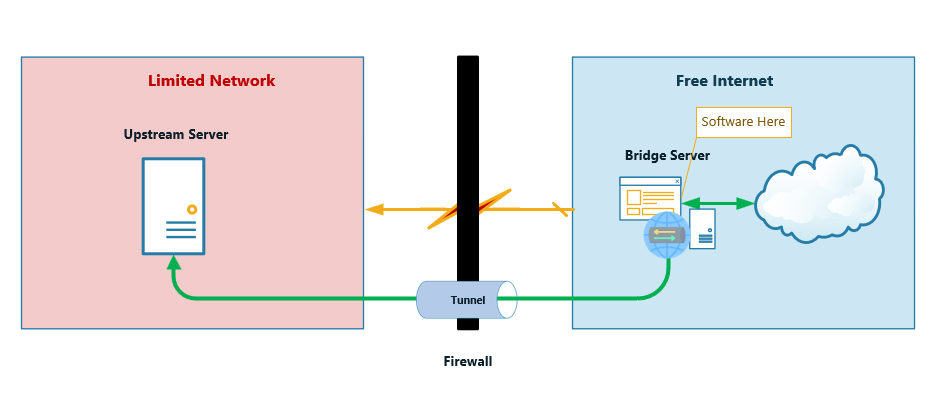
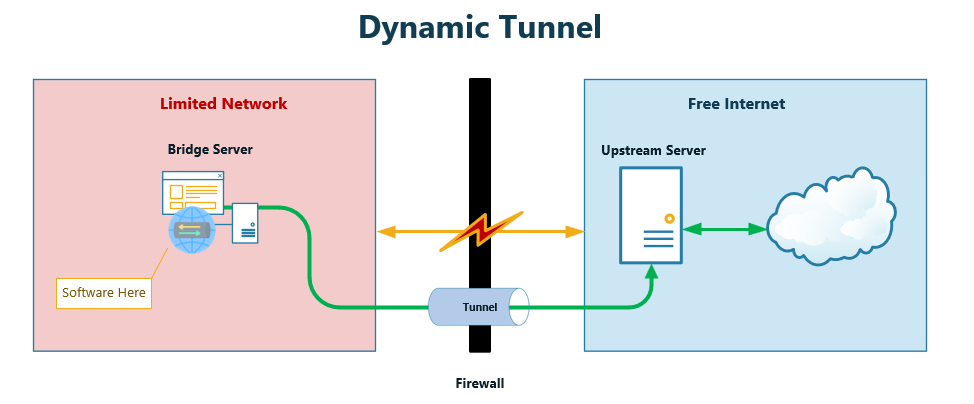
update

Changed region(s): [[0.0, 0.0297, 0.9851, 0.9802]]

diff --git a/README.MD b/README.MD
@@ -29,7 +29,7 @@
     - کاربران (Client): 
         - کاربرانی که فقط به سرور رابط دسترسی دارند 
 
-## هدف اتصال
+## هدف 
 هدف ما از اجرای این سناریو این است که در نهایت یک و یا چند پورت سرور بالادستی در سرور پل در اختیار کاربر قرار گیرد که از طریق آن به اینترنت آزاد دسترسی داشته باشند.
 
 بسته به روش و شرایط شبکه یکی از روش ها را انتخاب کنید
@@ -44,7 +44,7 @@
 
 ### تونل محلی (Local)
 
-اگر سرور رابط در اتصال به سرور بالادستی مشکلی ندارد و دسترسی به سرور بالادستی بدون مشکل می باشد روش اتصال لوکال توصیه می شود، در این روش نرم افزار در سرور رابط قرار گرفته و اتصال از نوع محلی انجام می شود 
+اگر سرور رابط در اتصال به سرور بالادستی مشکلی ندارد و دسترسی به سرور بالادستی بدون مشکل می باشد می توان از تونل محلی برای اتصال استفاده کرد، در این روش نرم افزار در سرور رابط قرار گرفته و اتصال از نوع محلی انجام می شود 
 
 
 <p align="center">
@@ -59,7 +59,7 @@
 در این روش نرم افزار در سرور بالادستی قرار گرفته و اتصال را با سرور رابط برقرار کرده و پورت نهایی در سرور رابط در اختیار کاربر قرار می گیرد 
 
 <p align="center">
-    <img src="docs/Remote Tunnel.png" style="width:70%; height:auto;">
+    <img src="docs/Remote-Tunnel.png" style="width:70%; height:auto;">
 </p>
 
 
@@ -67,7 +67,7 @@
 
 در این روش یک اتصال امن بین دو سرور ار نوع SOCKS برقرار شده و کل ترافیک شبکه بالادستی به سرور پل منتقل شده ولی در اختیار کاربر نهایی قرار نمی گیرد.
 
-- این نوع اتصال زمانی کاربرد دازد که شما بر روی سرور رابط به اینترنت بدون محدودیت نیاز دارید
+- این نوع اتصال زمانی کاربرد دارد که شما بر روی سرور رابط به اینترنت بدون محدودیت نیاز دارید
 
 <p align="center">
     <img src="docs/Dynamic-tunnel.png" style="width:70%; height:auto;">
@@ -141,6 +141,22 @@ ssh-copy-id -i key/id_rsa.pub <USER>@<IP>
 ```bash
 ./tunnel.py
 ```
+با زدن حرف c یک تونل ایجاد کنید 
+
+<p align="center">
+    <img src="docs/c1.png" style="width:40%; height:auto;">
+</p>
+
+
+
+
+
+
+
+
+
+
+
 
 <p align="center">
     <img src="docs/MainMenu.png" style="width:40%; height:auto;">
